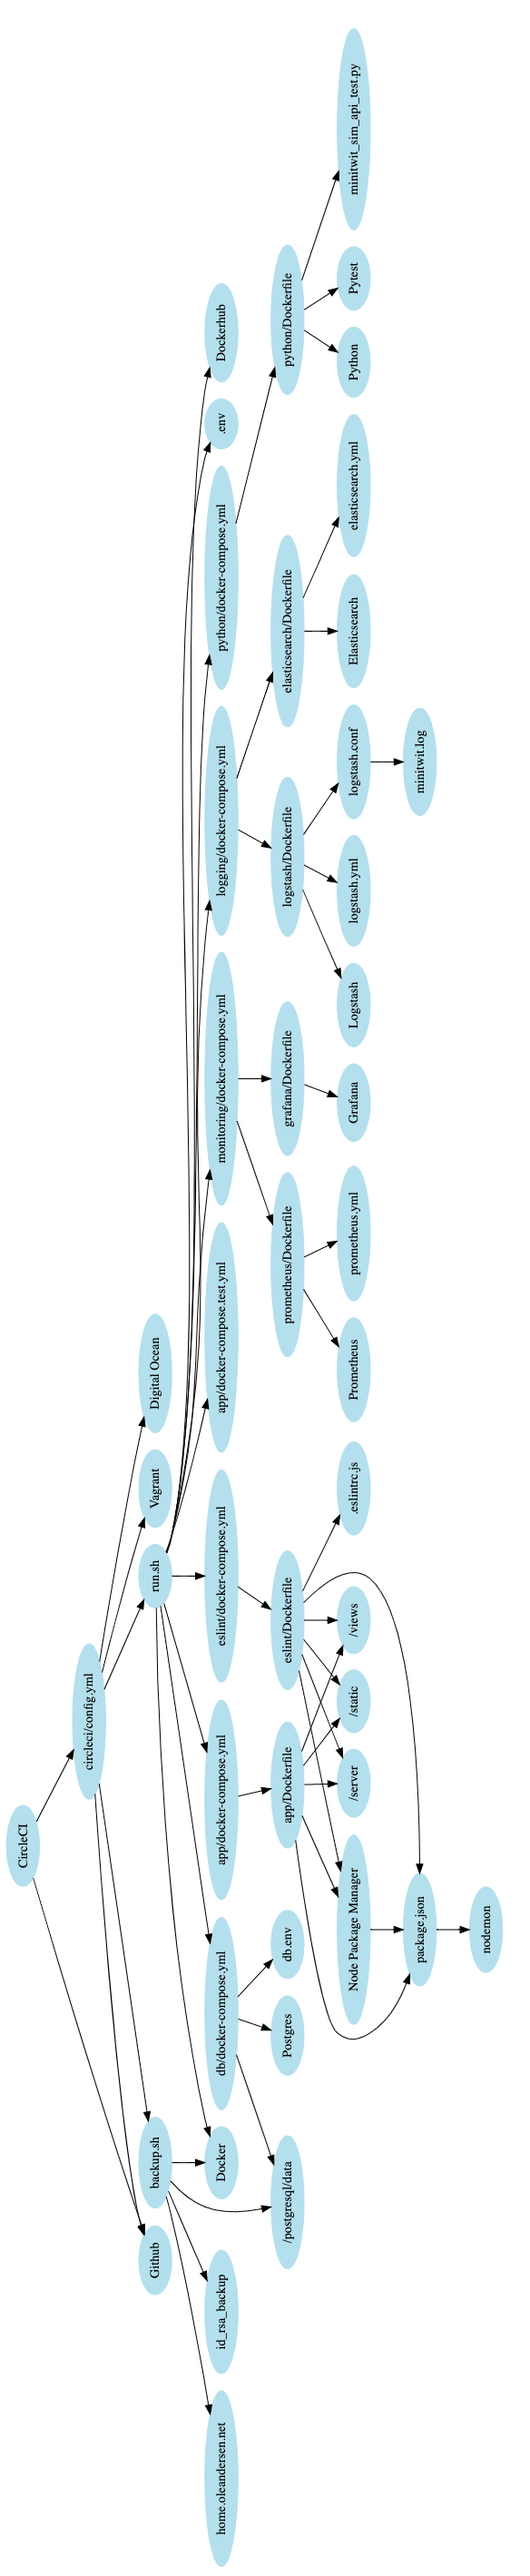
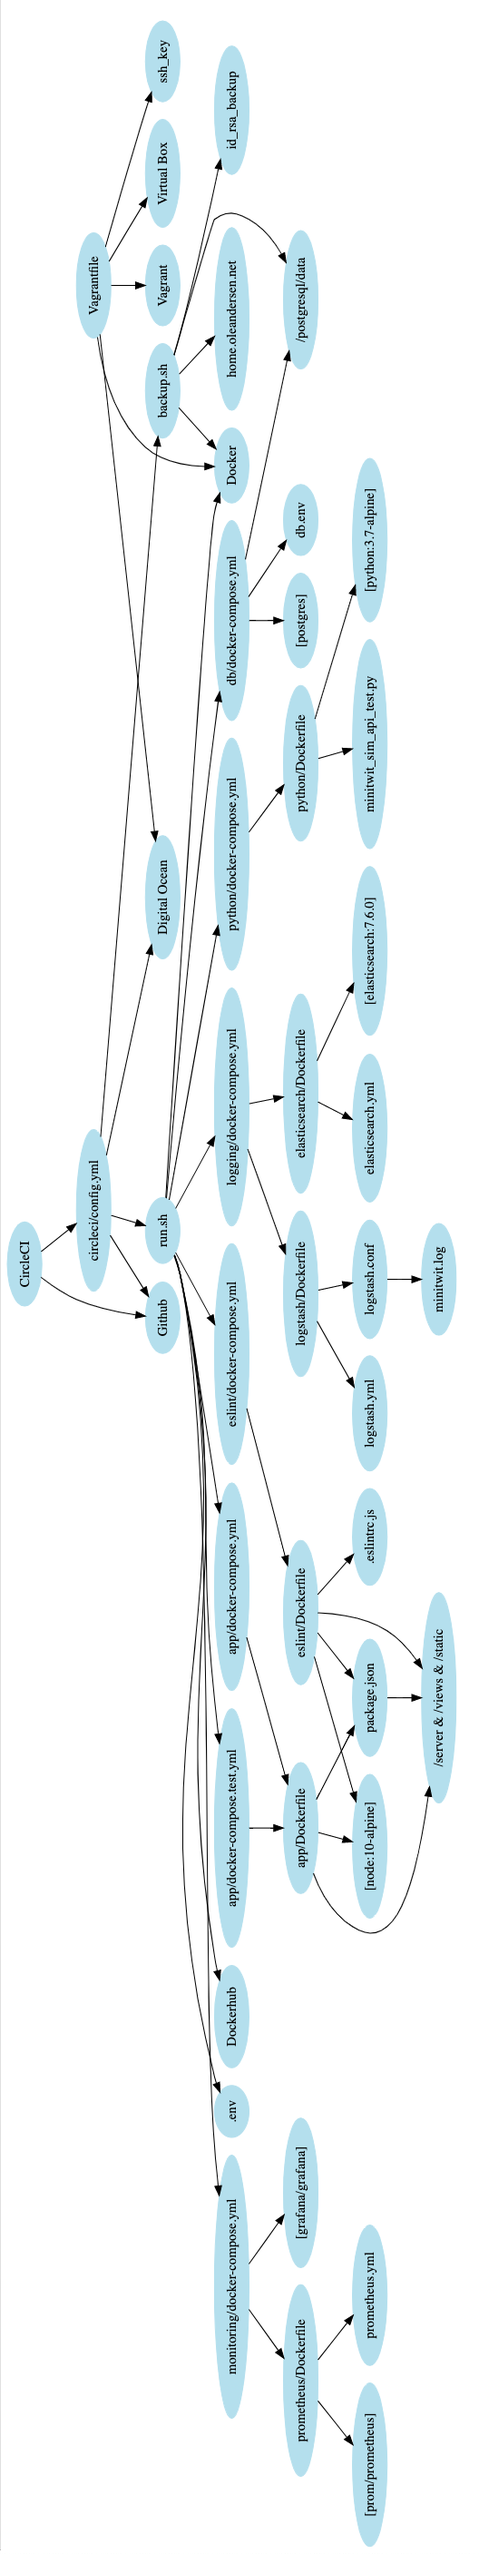
Check dependency section

diff --git a/report/chapters/202_dependencies.md b/report/chapters/202_dependencies.md
@@ -1,41 +1,31 @@
 ## 2.02 Dependencies
-<!-- 
-### Notes from session 3:
-In class, we define a software artifact as *An artifact is a tangible machine-readable document created during software development. Examples are requirement specification documents, design documents, source code and executables.* (ISO/IEC 19506:2012 Information technology — Object Management Group Architecture-Driven Modernization (ADM) — Knowledge Discovery Meta-Model (KDM)).
-
-Tasks:
-Keep track of your dependencies. That is, all technologies, services, runtime and build-time dependencies should be logged in a corresponding file and/or visualization.
-_____________________________ -->
-
-The only requirement for a machine to run a local version of our system is that Docker is installed since all our subsystems run in Docker containers. Using the run.sh script the docker images can be build and started. However, in order to develop, maintain and deploy the system there are quite a large number of dependencies. These dependencies of the system are depicted in the figure below.
+The only requirement for a machine to run a local version of our system is that Docker is installed since all our subsystems run in Docker containers. Using the run.sh script the docker images can be build and started. However, in order to develop, maintain and deploy the system, there are quite a large number of dependencies. These dependencies of the system are depicted in the directed acyclic graph below (a larger picture is appended in Appendix B).
 
 <!-- DEPENDENCY GRAPH1 (har vi alt med?) -->
-![Dependency graph 1](../images/tmp.png)
+![Dependency graph 1](../images/ch2_dependencies_all.png)
 
+The graph depicts all artifacts, installed technologies and services that we depend on to develop, run, build and deploy our code (excluding the application specific files and Node.js dependencies, which are depicted later)<!--, that is both the compiletime and runtime dependencies -->. At the root of the graph is the config file for CircleCI, as this is the file that is used to deploy our system - nothing else in our system it dependant on that.
 
-This directed acyclic graph depicts the dependencies of our system. At the top of the graph is the config file for CircleCI as this is the file that is used to deploy our system. The graph depicts both files and services that we depend on to deploy our code - that is both the compilation of the code and running the code.
+CircleCI depends on the CircleCI config file and our Github repository from which it fetches the project. The CircleCI config file depends on some services in order to deploy the system. This is described in section 3.01. Further, it depends on the run.sh and backup.sh scripts. The run.sh script is the equivalent of the control.sh of the original system. With this script it is possible to build and run the subsystems via Docker. The backup.sh script is used to regularly create a backup of the production database and store it on an external server (home.oleandersen.net).
 
-This directed acyclic graph depicts the dependencies of our system. At the top of the graph is the CircleCI service as this service is used to deploy the system. The graph depicts both files and services that we depend on to deploy the system - that is both the compiletime and runtime dependencies.
+The run.sh script is dependent on a number of docker-compose files to build and run the subsystems. Our application is divided into a number of separate docker-compose files, which composes different services in the application, like logging, monitoring, tests etc. Reasoning and discussion of this can be found in section 4.01, but we believe a single docker-compose file would have been a better solution, and that is the setup we decided on in our scalable solution (see section 3.06).
 
-CircleCI depends on the CircleCI config file and our Github repository from which it fetches the project. The CircleCI config file depends on some services in order to deploy the system. This is described in section 3.01. Further, it depends on the run.sh and backup.sh scripts. The run.sh script is the equivalent of the control.sh of the original system. With this script it is possible to build and run the subsystems via Docker. The backup.sh script is used to regularly create a backup of the production database and store it on an external server (home.oleandersen.net). 
+Each docker-compose file is dependent on zero or more dockerfiles, which are dependent on services and/or files in order to be build and run. Base images are depicted by square-brackets, e.g. \[node:10-alpine\].
 
-The run.sh script is dependent on a number of docker-compose files to build and run the subsystems. The reason for having multiple docker-compose files is that we originally found that it made it easier to wait between deploying the individual subsystems. For instance, we had to wait for the database to start up completely before starting our application, which would connect to the database. Instead of having multiple different docker-compose files we should have just had a single one. Then we could have started the services of this docker-compose individually when we needed to. This is the setup that we have decided on in our scalable solution (see section 3.06).
+In this graph it is depicted that the package.json file, which is needed to start the Node.js application, is only dependent on the application code in server, views, and static (which are depicted together for simplicity). The package.json file describes the list of libraries that our application is dependent on. These library dependencies are shown in the figure below (a larger picture is appended in Appendix B).
 
-Each docker-compose file is dependent on zero or more dockerfiles, which are dependent on services and/or files in order to be build and run.
+![NPM library dependencies](../images/ch2_dependencies_npm.png)
 
-In this graph it is depicted that the package.json file, which is needed to start the Node.js application, is only dependent on nodemon. The package.json file contains a list of libraries that our application is dependent on. These library dependencies are shown in the figure below.
-
-![NPM library dependencies](../images/ch2_npm_dependencies.png)
-
-This figure shows the dependencies of our Node.js application - the javascript code - based on the Package.json file. These libraries are installed by running the command "npm install". When deploying the code a docker container with NPM installed is used and the "npm install" command is run inside this container. Therefore, the machine on which the system is deployed does not need to have NPM or any of the libraries installed.
+This figure shows the dependencies of our Node.js application - the JavaScript code - based on the Package.json file. To run the application, the device needs to have Node.js, NPM and these libraries, which are installed by running the command "npm install". However, when deploying the code, we use a docker container with Node.js and NPM installed and then run "npm install" inside the container, before spinning up the application. Therefore, with the help of containerization, the machine itself on which the system is deployed does not need to have Node, NPM or any of the libraries installed - it only depends on Docker.
 
 The dependency graph above helps get an overview of the libraries the code depends on. This overview is important when looking at the technical debt of the system. We can investigate these libraries and figure out the following:
 - Are these libraries updated regularly or outdated?
-- Are they well documented?  
-- Are they widely used
-- Know flaws or vulnerabilies
+- Are they well documented?
+- Are they widely used?
+- Know flaws or vulnerabilies?
+<!-- Containerization help minimize the impact of the first one. Without containerization, if a library is not regularly, it might end up being incompatible with other technologies in our system. However, because we are using docker images, we know that the technologies in the environment are at a stage where they are compatible. -->
 
-We used an online tool that was able to create the entire dependency graph of the Node.js application - also depicting the dependencies of the libraries shown in our dependency graph above. As this graph was very large and contained libraries we had never seen before we did not find it very helpful. We therefore chose not to include the dependencies of our dependencies in the graph. However, if some of the libraries our code depends on, depends on an outdated library then so does our code. This could be a library that is vulnerable to malicious attacks. The large graph could be useful in detecting such libraries that our code indirectly depends on.
+If some of the libraries our code depends on, depends on an outdated library then so does our code. This could be a library that is vulnerable to malicious attacks. These graph could be useful in detecting such libraries that our code indirectly depends on. To help mitigate this risk, we should have set up GitHub to provide warnings about deprecated dependencies in our code base, but we did not do this.
 
 ---
 [ [prev page](../chapters/201_design_and_architecture.md) | [table of content](../table_of_content.md) | [next page](../chapters/203_interactions_of_subsystems.md) ]

diff --git a/report/chapters/500_appendices.md b/report/chapters/500_appendices.md
@@ -19,7 +19,7 @@ Technologies:
 
 ## Appendix B
 ### All dependencies
-![Dependency graph](./../images/ch2_dependencies_all_sideways.png)
+![Dependency graph](../images/ch2_dependencies_all_sideways.png)
 ### Application level (npm) dependencies
 ![Dependency graph](./../images/ch2_dependencies_npm_sideways.png)
 
